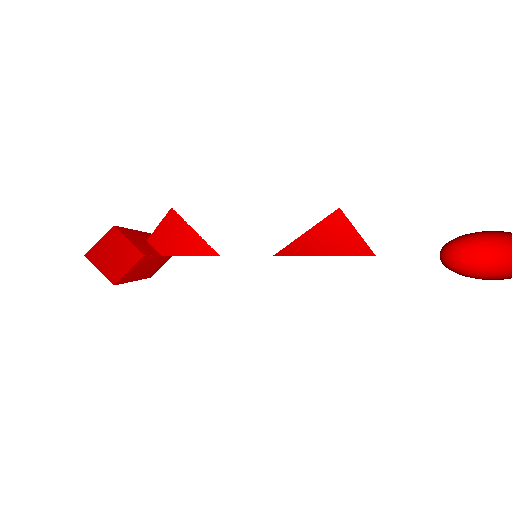
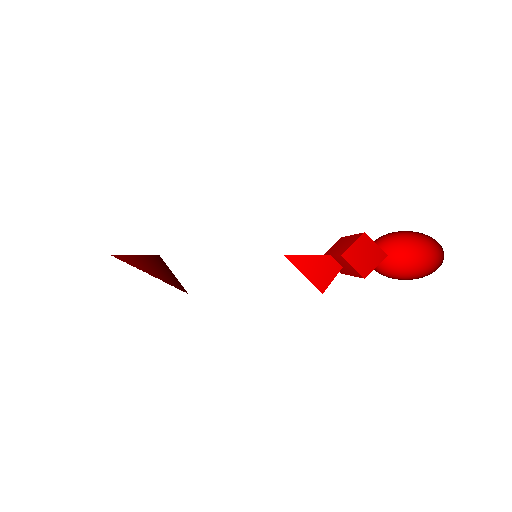
feat: refactored pinhole camera. Requires some tweaks tho

Changed region(s): [[0.5312, 0.4062, 1.0, 0.5938], [0.1562, 0.4062, 0.4375, 0.5625]]

diff --git a/src/camera.rs b/src/camera.rs
@@ -11,13 +11,12 @@ use crate::{surface, Mat4};
 use crate::vector::Vector;
 
 pub struct Camera {
-    pub line: Line,
+    pub position: Vector,
+    pub forward: Vector,
     pub render_width: i32,
     pub render_height: i32,
     pub up: Vector,
     pub right: Vector,
-    default: (Vector, Vector),
-    rotation: Quaternion,
     debug: String,
     pub backface_culling: bool,
     pub perspective: bool,
@@ -25,78 +24,74 @@ pub struct Camera {
 }
 
 impl Camera {
-    pub fn new(camera_position: Vector, camera_look_direction: Vector, width: i32, height: i32, up: Vector, right: Vector) -> Camera {
+    pub fn new(position: Vector, forward: Vector, width: i32, height: i32, up: Vector) -> Camera {
+        let right = forward.cross(&up);
         Camera {
-            line: Line::new(camera_position, camera_look_direction),
+            position,
+            forward,
             render_width: width,
             render_height: height,
-            default: (camera_position, camera_look_direction),
             up,
             right,
-            rotation: Quaternion::identity(),
             debug: String::new(),
-            backface_culling: false,
+            backface_culling: true,
             perspective: false,
             pinhole_distance: 120.0,
         }
     }
 
-    pub fn render(&mut self, object: &Object) -> Vec<RayCastHit> {
-        // THIS IS JUST TO ROTATE THE CAMERA ONCE PER RENDER WITHOUT IT SPINNING AROUND
-        let mut l = self.line.clone();
-        let mut point = self.line.point;
-        point.rotate_by_quaternion(&self.rotation);
-        l.point.rotate_by_quaternion(&self.rotation);
-        l.direction.rotate_by_quaternion(&self.rotation);
-        let mut up = self.up.clone();
-        let mut right = self.right.clone();
-        up.rotate_by_quaternion(&self.rotation);
-        right.rotate_by_quaternion(&self.rotation);
+    // OLD RENDER FUNCTION
+    // pub fn render(&mut self, object: &Object) -> Vec<RayCastHit> {
+    //     // THIS IS JUST TO ROTATE THE CAMERA ONCE PER RENDER WITHOUT IT SPINNING AROUND
+    //     let mut l = self.line.clone();
+    //     let mut point = self.line.point;
+    //     point.rotate_by_quaternion(&self.rotation);
+    //     l.point.rotate_by_quaternion(&self.rotation);
+    //     l.direction.rotate_by_quaternion(&self.rotation);
+    //     let mut up = self.up.clone();
+    //     let mut right = self.right.clone();
+    //     up.rotate_by_quaternion(&self.rotation);
+    //     right.rotate_by_quaternion(&self.rotation);
 
-        self.debug.clear();
-        self.debug.push_str(&format!("Camera position: {}\n", l.point.to_string()));
-        self.debug.push_str(&format!("Camera direction: {}\n", l.direction.to_string()));
-        self.debug.push_str(&format!("Camera up: {}\n", up.to_string()));
-        self.debug.push_str(&format!("Camera right: {}\n", right.to_string()));
+    //     self.debug.clear();
+    //     self.debug.push_str(&format!("Camera position: {}\n", l.point.to_string()));
+    //     self.debug.push_str(&format!("Camera direction: {}\n", l.direction.to_string()));
+    //     self.debug.push_str(&format!("Camera up: {}\n", up.to_string()));
+    //     self.debug.push_str(&format!("Camera right: {}\n", right.to_string()));
 
-        let mut hits: Vec<RayCastHit> = Vec::new();
-        for i in (-self.render_height / 2)..(self.render_height / 2) {
-            for j in (-self.render_width / 2)..(self.render_width / 2) {
-                l.point = point + up * i as f64 + right * j as f64;
-                let mut hit = l.intersection_object(&object, &l.point, &self.backface_culling);
-                hit.pos_on_screen = (j, i);
-                hits.push(hit);
-            }
-        }
-        hits
-    }
+    //     let mut hits: Vec<RayCastHit> = Vec::new();
+    //     for i in (-self.render_height / 2)..(self.render_height / 2) {
+    //         for j in (-self.render_width / 2)..(self.render_width / 2) {
+    //             l.point = point + up * i as f64 + right * j as f64;
+    //             let mut hit = l.intersection_object(&object, &l.point, &self.backface_culling);
+    //             hit.pos_on_screen = (j, i);
+    //             hits.push(hit);
+    //         }
+    //     }
+    //     hits
+    // }
 
     pub fn render_scene(&mut self, scene: &Scene) -> Vec<RayCastHit> {
-        let mut l = self.line.clone();
-        let mut point = self.line.point;
-        point.rotate_by_quaternion(&self.rotation);
-        l.point.rotate_by_quaternion(&self.rotation);
-        l.direction.rotate_by_quaternion(&self.rotation);
-        let mut up = self.up.clone();
-        let mut right = self.right.clone();
-        up.rotate_by_quaternion(&self.rotation);
-        right.rotate_by_quaternion(&self.rotation);
+        let mut new_up = self.right.cross(&self.forward);
+        let mut ray = Line::new(self.position, self.forward);
+        println!("new up: {:?}", new_up);
+
         let mut hits: Vec<RayCastHit> = Vec::new();
         if !self.perspective {
             for i in (-self.render_height / 2 + 1)..(self.render_height / 2) {
                 for j in (-self.render_width / 2)..(self.render_width / 2) {
                     let mut closest_intersection = RayCastHit::new(None);
                     let mut closest_distance = 0.0;
-    
-                    l.point = point + up * i as f64 + right * j as f64;
+
+                    ray.point = self.position + new_up * i as f64 + self.right * j as f64;
                     for primitive in &scene.primitives {
-                        let hit = primitive.intersect(&l);
+                        let hit = primitive.intersect(&ray);
                         if hit.is_some() {
-                            let from_cam_to_point = hit.unwrap().0 - l.point;
+                            let from_cam_to_point = hit.unwrap().0 - ray.point;
                 
-                            if from_cam_to_point.dot(&l.direction) >= 0.0 {
+                            if from_cam_to_point.dot(&ray.direction) >= 0.0 {
                                 let intersection = hit.unwrap();
-                                let distance = l.point.distance(&intersection.0);
+                                let distance = ray.point.distance(&intersection.0);
                 
                                 if closest_intersection.is_none() {
                                     closest_intersection = RayCastHit::new(Some(intersection));
@@ -114,27 +109,26 @@ impl Camera {
                 }
             }
         } else {
-            // render with perspective using projection matrix
             for i in (-self.render_height / 2 + 1)..(self.render_height / 2) {
                 for j in (-self.render_width / 2)..(self.render_width / 2) {
                     let mut closest_intersection = RayCastHit::new(None);
                     let mut closest_distance = 0.0;
-                    //implement a 'pinhole' camera
-                    let front = self.right.cross(&self.up);
+                    //'pinhole' camera rendering
 
-                    let line_point = self.default.0 + up * i as f64 + right * j as f64 + front * -self.pinhole_distance;
-                    let mut line_dir = (self.default.0) - line_point;
-                    line_dir.normalize();
-                    let line = Line::new(line_point, line_dir);
+                    ray.point = self.position - self.forward * self.pinhole_distance;
+                    ray.direction = Vector::from_points(ray.point, self.position + new_up * i as f64 + self.right * j as f64);
+
+                    // let line_point = self.default.0 + up * i as f64 + right * j as f64 + front * -self.pinhole_distance;
+                    // let mut line_dir = (self.default.0) - line_point;
 
                     for primitive in &scene.primitives {
-                        let hit = primitive.intersect(&line);
+                        let hit = primitive.intersect(&ray);
                         if hit.is_some() {
-                            let from_cam_to_point = hit.unwrap().0 - line.point;
+                            let from_cam_to_point = hit.unwrap().0 - ray.point;
                 
-                            if from_cam_to_point.dot(&line.direction) >= 0.0 {
+                            if from_cam_to_point.dot(&ray.direction) >= 0.0 {
                                 let intersection = hit.unwrap();
-                                let distance = line.point.distance(&intersection.0);
+                                let distance = ray.point.distance(&intersection.0);
                 
                                 if closest_intersection.is_none() {
                                     closest_intersection = RayCastHit::new(Some(intersection));
@@ -157,20 +151,7 @@ impl Camera {
     }
 
     pub fn set_camera_position(&mut self, v: &Vector) {
-        self.line.point = *v;
-    }
-
-    pub fn set_camera_rotation(&mut self, q: &Quaternion) {
-        self.rotation = *q;
-    }
-
-    pub fn set_as_default(&mut self) {
-        self.default = (self.line.point, self.line.direction);
-    }
-
-    pub fn default(&mut self) {
-        self.line.point = self.default.0;
-        self.line.direction = self.default.1;
+        self.position = *v;
     }
 
     pub fn get_debug_info(&self) -> String {

diff --git a/src/vector.rs b/src/vector.rs
@@ -22,8 +22,14 @@ impl Vector {
     }
 
     /// create a vector that points from one point to another
-    pub fn from_points(p1: &Point, p2: &Point) -> Vector {
-        Vector::new(p2.x - p1.x, p2.y - p1.y, p2.z - p1.z)
+    pub fn from_points(start: Vector, end: Vector) -> Vector {
+        let direction = (end - start)._normalize();
+        Vector {
+            x: direction.x,
+            y: direction.y,
+            z: direction.z,
+            w: 1.0,
+        }
     }
 
     /// dot product, multiplication of all components
@@ -72,6 +78,16 @@ impl Vector {
         self.x /= length;
         self.y /= length;
         self.z /= length;
+    }
+
+    pub fn _normalize(&mut self) -> Vector {
+        let length = self.length();
+        Vector {
+            x: self.x / length,
+            y: self.y / length,
+            z: self.z / length,
+            w: self.w,
+        }
     }
 
     // rotates self by a given quaternion
@@ -275,10 +291,11 @@ mod tests {
 
     #[test]
     fn from_points_test() {
-        let p1 = Point::new(1.0, 2.0, 3.0);
-        let p2 = Point::new(4.0, 5.0, 6.0);
-        let v1 = Vector::from_points(&p1, &p2);
-        let v2 = Vector::new(3.0, 3.0, 3.0);
+        let start = Vector::new(0.0, 0.0, 0.0);
+        let end = Vector::new(0.0, 0.0, 1.0);
+        let v1 = Vector::from_points(start, end);
+        // normalized result
+        let v2 = Vector::new(0.0, 0.0, 1.0);
         assert_eq!(v1, v2);
     }
 

diff --git a/src/main.rs b/src/main.rs
@@ -282,8 +282,8 @@ fn main() {
 
 
     let sphere = Sphere::new(
-        Vector::new(190.0, 0.0, 0.0),
-        20.0,
+        Vector::new(-150.0, 0.0, 0.0),
+        25.0,
         Vector::new(255.0, 0.0, 0.0)
     );
 
@@ -307,25 +307,21 @@ fn main() {
 
     scene.add_primitive(Box::new(triangle));
 
-    let mut hits: Vec<RayCastHit> = Vec::new();
-
-    let mut q: Quaternion = Quaternion::identity();
-
-    let camera_pos = Vector::new(0.0, 0.0, -100.0);
+    let camera_pos = Vector::new(0.0, 0.0, 5.0);
 
     let mut camera = Camera::new(
         camera_pos.clone(),
         Vector::new(0.0, 0.0, -1.0),
         RENDER_WIDTH, RENDER_HEIGHT,
-        Vector::new(0.0, 1.0, 0.0),
-        Vector::new(1.0, 0.0, 0.0));
+        Vector::new(0.0, 1.0, 0.0)
+    );
 
     camera.perspective = true;
 
     let cube_color: Color = Color::new(255, 0, 0, 255);
 
     let mut img = ImageBuffer::new(RENDER_WIDTH as u32, RENDER_HEIGHT as u32);
-    hits = camera.render_scene(&scene);
+    let hits = camera.render_scene(&scene);
 
     for hit in hits.iter() {
         if hit.is_some() {
